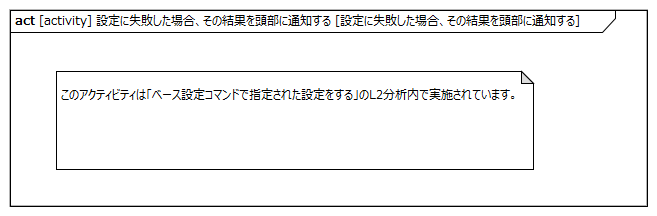
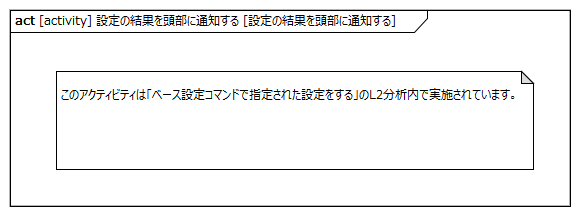
プルリク#13レビュー指摘対応 ・「遠隔で設定する」で設定成否にかかわらず、結果を通知するように修正 ・「遠隔で設定する」でベース設定コマンド受付不可の際、設定失敗とするように修正

diff --git a/requirements/remote_setting.md b/requirements/remote_setting.md
@@ -65,7 +65,7 @@ avatarin側の責務のため、対象外とする。
 
 <div style="page-break-before:always"></div>
 
-## 頭部はベース設定コマンド受付可の場合、ベース設定コマンドに走行部に送信する
+## 頭部はベース設定コマンド受付可の場合、ベース設定コマンドに走行部に送信する。受付不可の場合、設定失敗とする
 
 avatarin側の責務のため、対象外とする。
 
@@ -77,7 +77,7 @@ avatarin側の責務のため、対象外とする。
 
 <div style="page-break-before:always"></div>
 
-## 頭部は設定に失敗した場合、その結果をアバタークラウドに返す
+## 頭部は設定の結果をアバタークラウドに返す
 
 avatarin側の責務のため、対象外とする。
 
@@ -92,9 +92,6 @@ avatarin側の責務のため、対象外とする。
 |要求|備考|
 |:---|:---|
 |Miimo Main ECUはベース設定コマンドの受付可否を判定する|ベース設定コマンドは、走行中（速度≠0）の時は受け付けない想定|
-
-
-
 
 <div style="page-break-before:always"></div>
 
@@ -113,7 +110,7 @@ avatarin側の責務のため、対象外とする。
 
 <div style="page-break-before:always"></div>
 
-## 走行部は設定に失敗した場合、その結果を頭部に通知する
+## 走行部は設定の結果を頭部に通知する
 
 ![](.images/activity/remote_setting/act03.png)
 

diff --git a/requirements/requirement.md b/requirements/requirement.md
@@ -1280,12 +1280,12 @@ YES動作コマンドは首垂直動作に依存し、NO動作コマンドは首
 |:---|:---|
 |頭部は頭部設定コマンドを頭部に、ベース設定コマンドに走行部に送信する||
 |頭部はベース設定コマンド受付可否を走行部に問い合わせる||
-|頭部はベース設定コマンド受付可の場合、ベース設定コマンドに走行部に送信する。受付不可の場合、コマンドを破棄する||
+|頭部はベース設定コマンド受付可の場合、ベース設定コマンドに走行部に送信する。受付不可の場合、設定失敗とする||
 |頭部は頭部設定コマンドで指定された設定をする||
-|頭部は設定に失敗した場合、その結果をアバタークラウドに返す||
+|頭部は設定の結果をアバタークラウドに返す||
 |走行部はベース設定コマンドを受付可能か回答する|ベース設定コマンドは、走行中（速度≠0）の時は受け付けない想定|
 |走行部はベース設定コマンドで指定された設定をする||
-|走行部は設定に失敗した場合、その結果を頭部に通知する||
+|走行部は設定の結果を頭部に通知する||
 
 <div style="page-break-before:always"></div>
 
